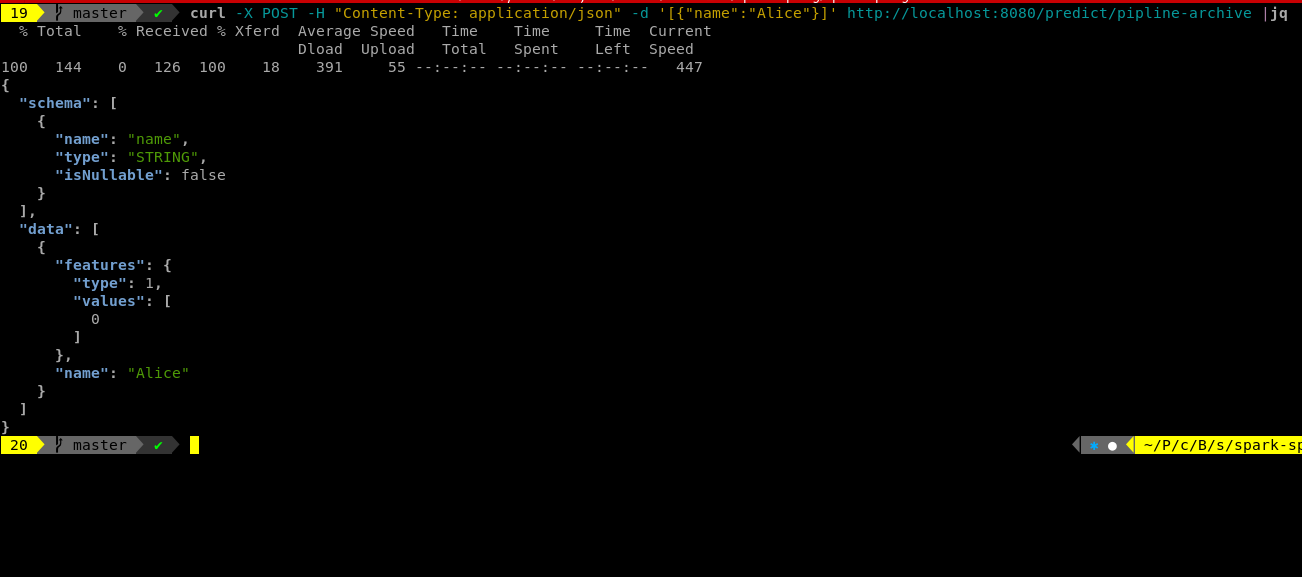
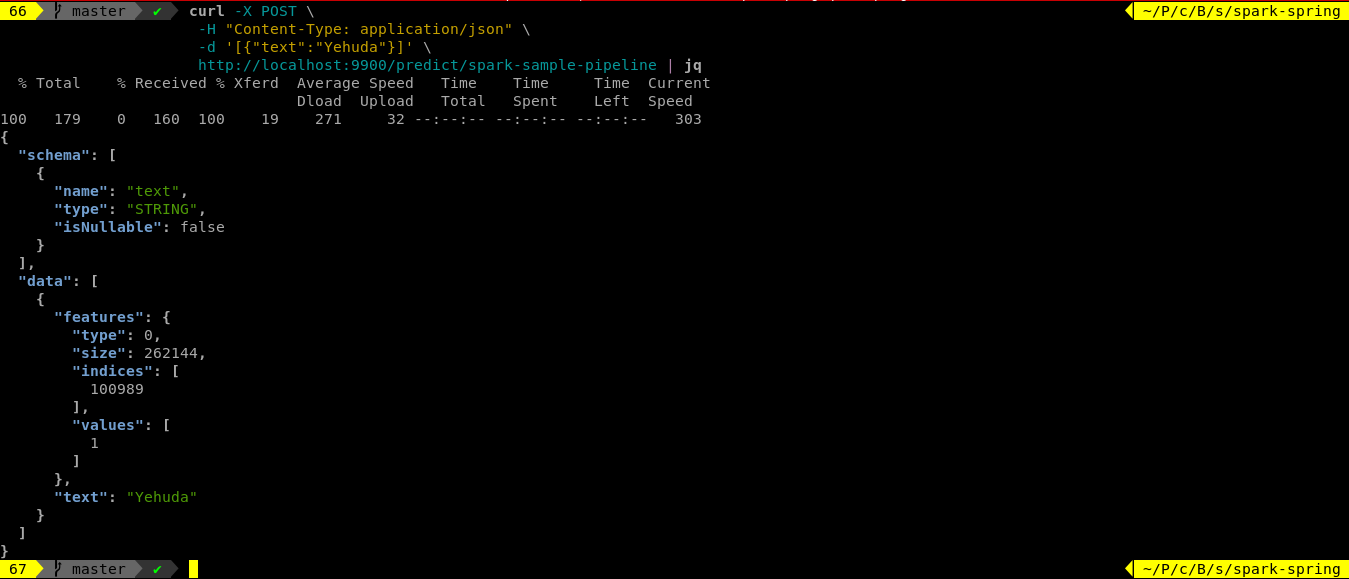
doc

diff --git a/README.md b/README.md
@@ -44,6 +44,7 @@ pipeline = Pipeline(stages=[tokenizer, hashingTF, lr])
 # Fit the pipeline to training documents.
 model = pipeline.fit(training)
 
+# This is the save pipeline method
 model.save("/some-where-ml/project1/pipeline")
 
 ```
@@ -70,9 +71,9 @@ in `application.properties` change the `pipelines.folder` to pipeline store fold
 
 ```bash
 curl -X POST \
-	-H "Content-Type: application/json" \
-	-d '[{"text":"Alice"}]' \
-	http://localhost:8080/predict/spark-sample-pipeline
+	 -H "Content-Type: application/json" \
+	 -d '[{"text":"Yehuda"}]' \
+	 http://localhost:9900/predict/spark-sample-pipeline
 ```
 
 ![Runnig POC](https://github.com/alefbt/SparkML-spring-scoring-poc/blob/master/images/poc-serv.png "Running POC")
